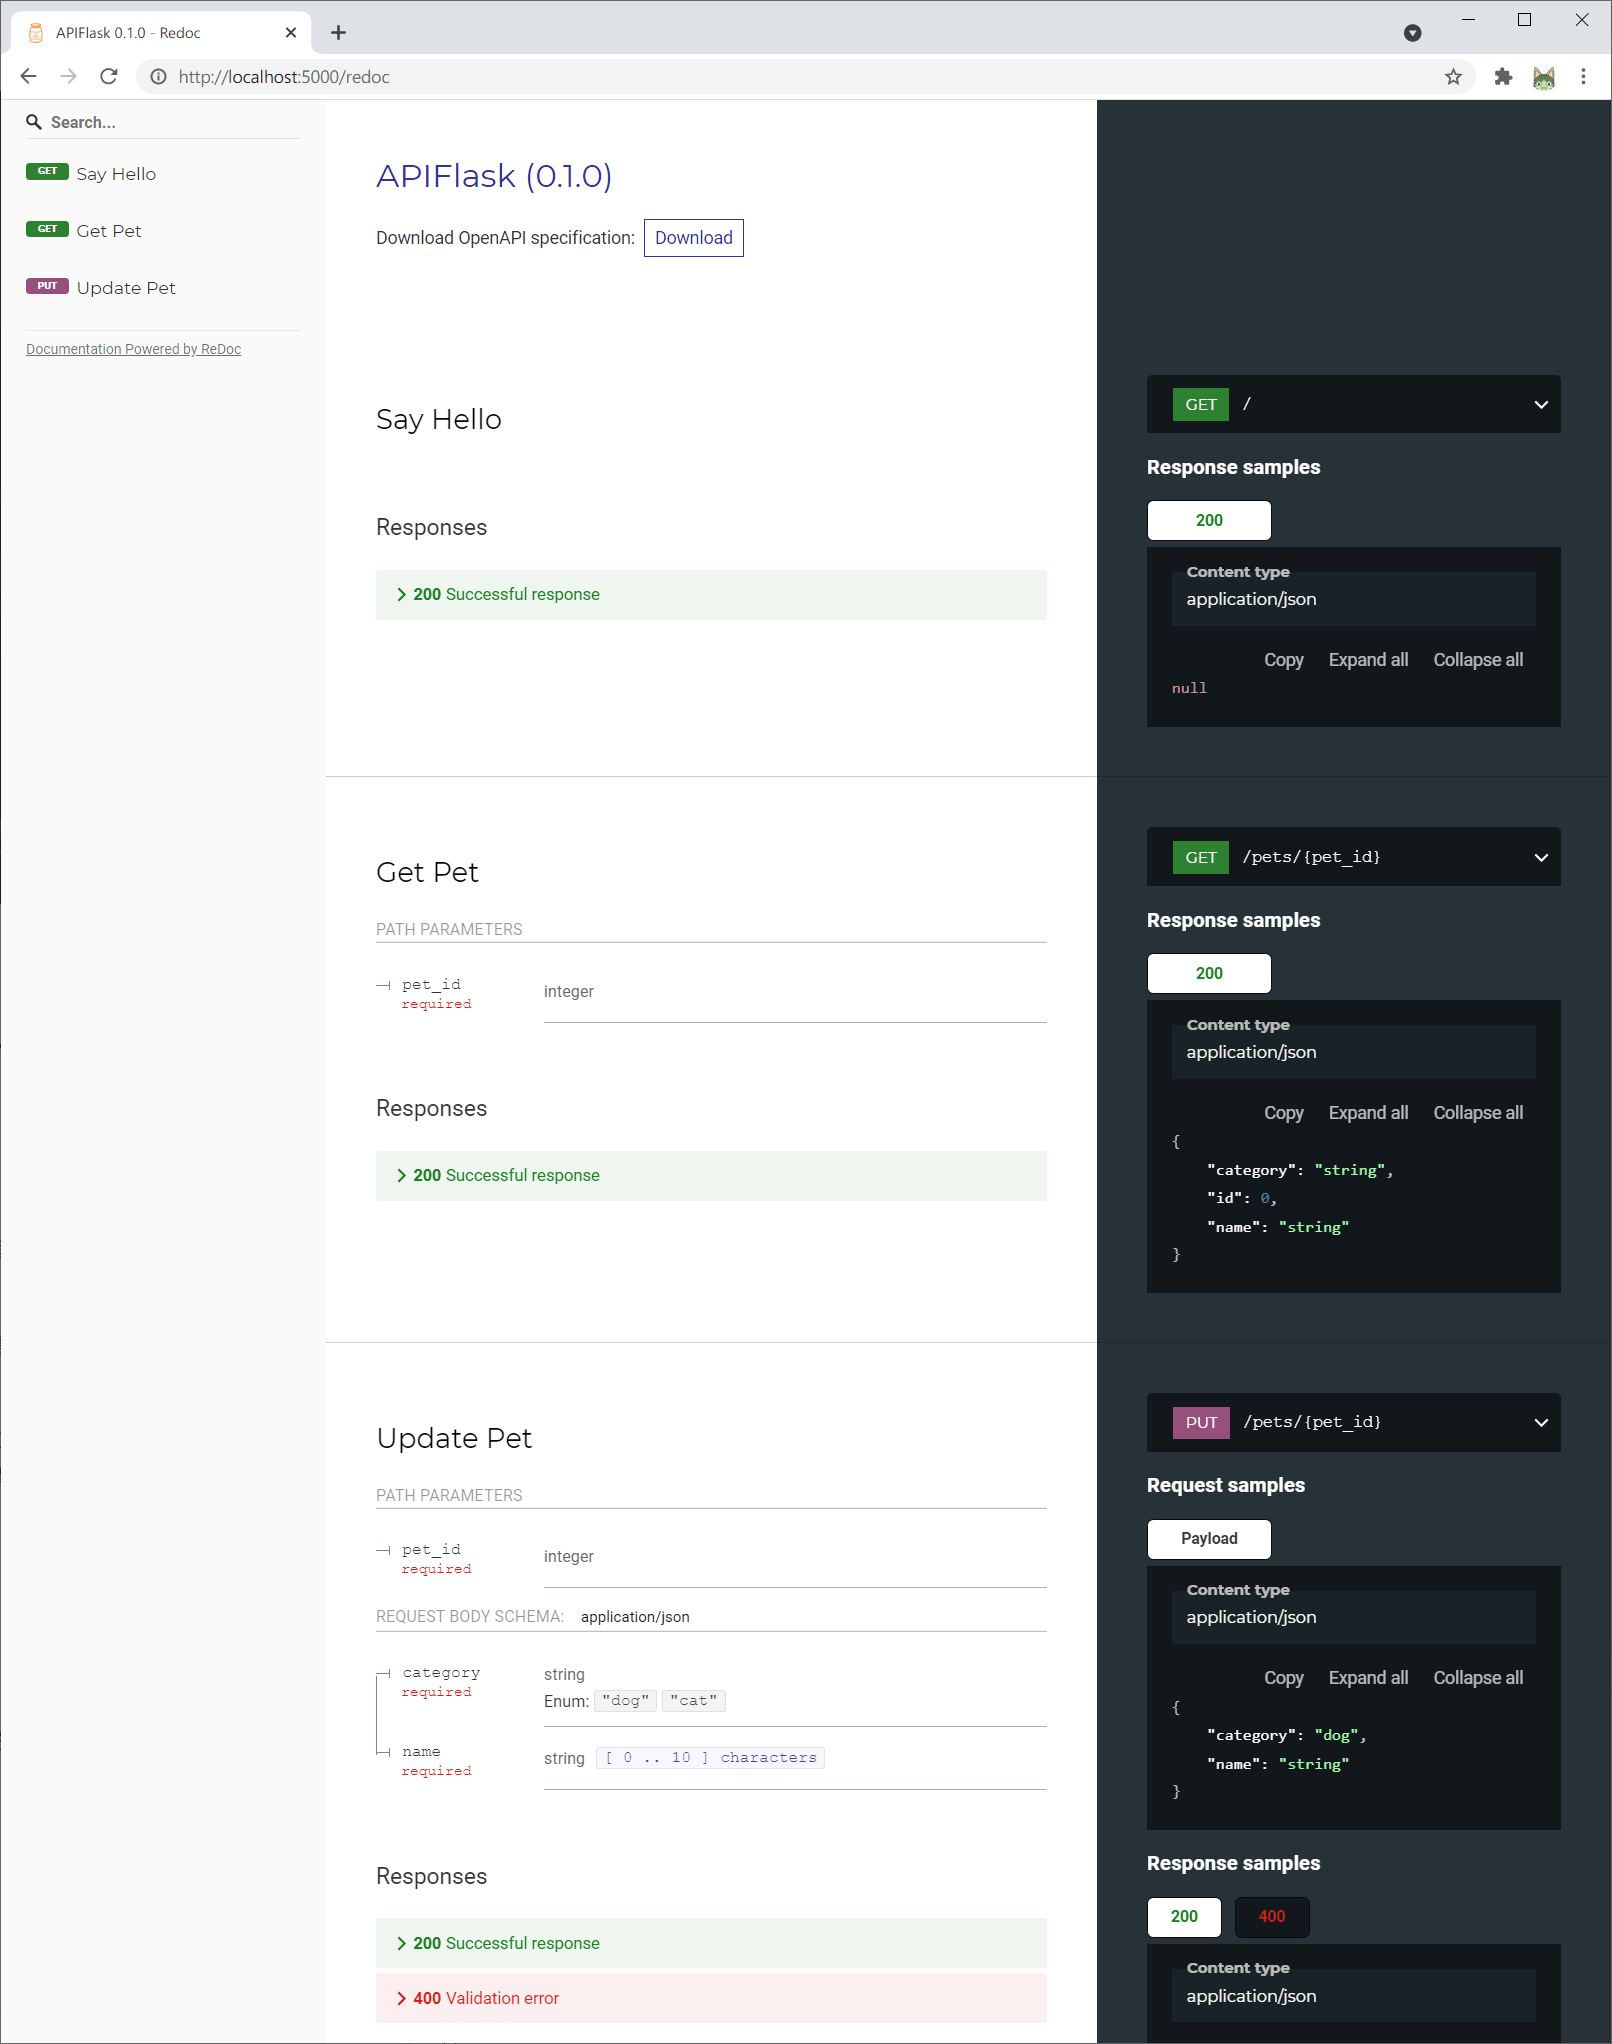
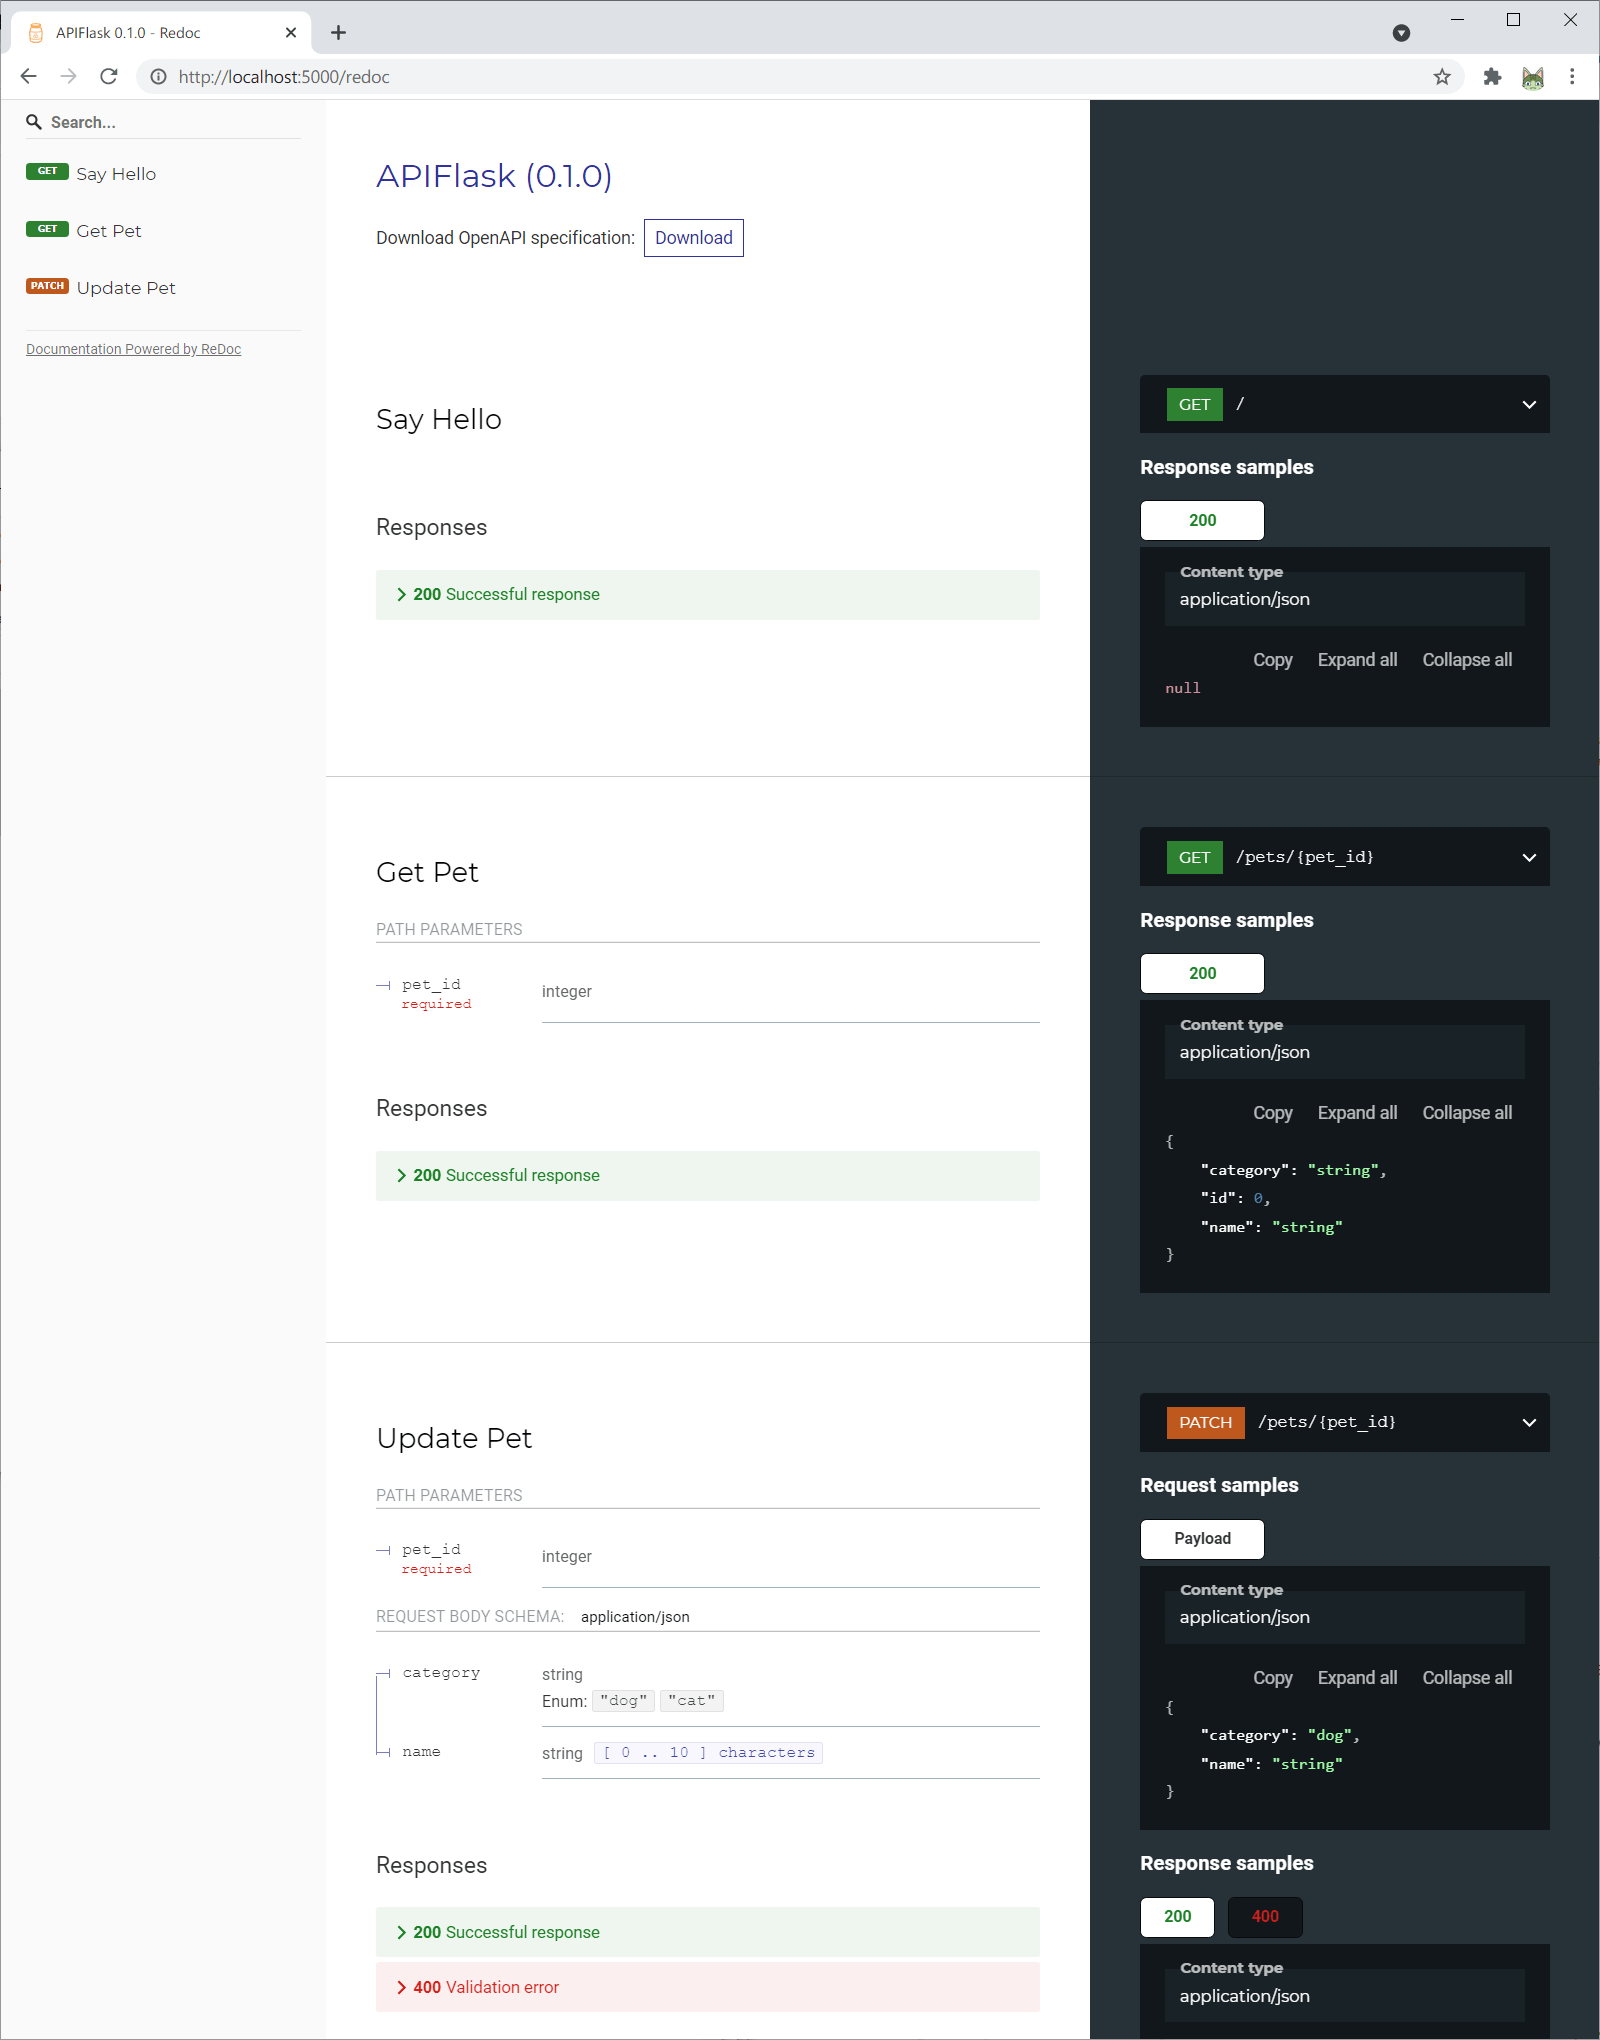
Simplify example applications

diff --git a/examples/basic/app.py b/examples/basic/app.py
@@ -63,21 +63,10 @@ def create_pet(data):
     return pets[pet_id]
 
 
-@app.put('/pets/<int:pet_id>')
-@input(PetInSchema)
-@output(PetOutSchema)
-def update_pet(pet_id, data):
-    if pet_id > len(pets) - 1:
-        abort(404)
-    data['id'] = pet_id
-    pets[pet_id] = data
-    return pets[pet_id]
-
-
 @app.patch('/pets/<int:pet_id>')
 @input(PetInSchema(partial=True))
 @output(PetOutSchema)
-def partial_update_pet(pet_id, data):
+def update_pet(pet_id, data):
     if pet_id > len(pets) - 1:
         abort(404)
     for attr, value in data.items():

diff --git a/examples/cbv/app.py b/examples/cbv/app.py
@@ -51,15 +51,6 @@ class Pet(MethodView):
             abort(404)
         return pets[pet_id]
 
-    @input(PetInSchema)
-    @output(PetOutSchema)
-    def put(self, pet_id, data):
-        if pet_id > len(pets) - 1:
-            abort(404)
-        data['id'] = pet_id
-        pets[pet_id] = data
-        return pets[pet_id]
-
     @input(PetInSchema(partial=True))
     @output(PetOutSchema)
     def patch(self, pet_id, data):

diff --git a/README.md b/README.md
@@ -99,15 +99,15 @@ def get_pet(pet_id):
     return pets[pet_id]
 
 
-@app.put('/pets/<int:pet_id>')
-@input(PetInSchema)
+@app.patch('/pets/<int:pet_id>')
+@input(PetInSchema(partial=True))
 @output(PetOutSchema)
 def update_pet(pet_id, data):
     # the parsed input data (dict) will be injected into the view function
     if pet_id > len(pets) - 1:
         abort(404)
-    data['id'] = pet_id
-    pets[pet_id] = data
+    for attr, value in data.items():
+        pets[pet_id][attr] = value
     return pets[pet_id]
 ```
 
@@ -165,13 +165,13 @@ class Pet(MethodView):
             abort(404)
         return pets[pet_id]
 
-    @input(PetInSchema)
+    @input(PetInSchema(partial=True))
     @output(PetOutSchema)
-    def put(self, pet_id, data):
+    def patch(self, pet_id, data):
         if pet_id > len(pets) - 1:
             abort(404)
-        data['id'] = pet_id
-        pets[pet_id] = data
+        for attr, value in data.items():
+            pets[pet_id][attr] = value
         return pets[pet_id]
 ```
 </details>
